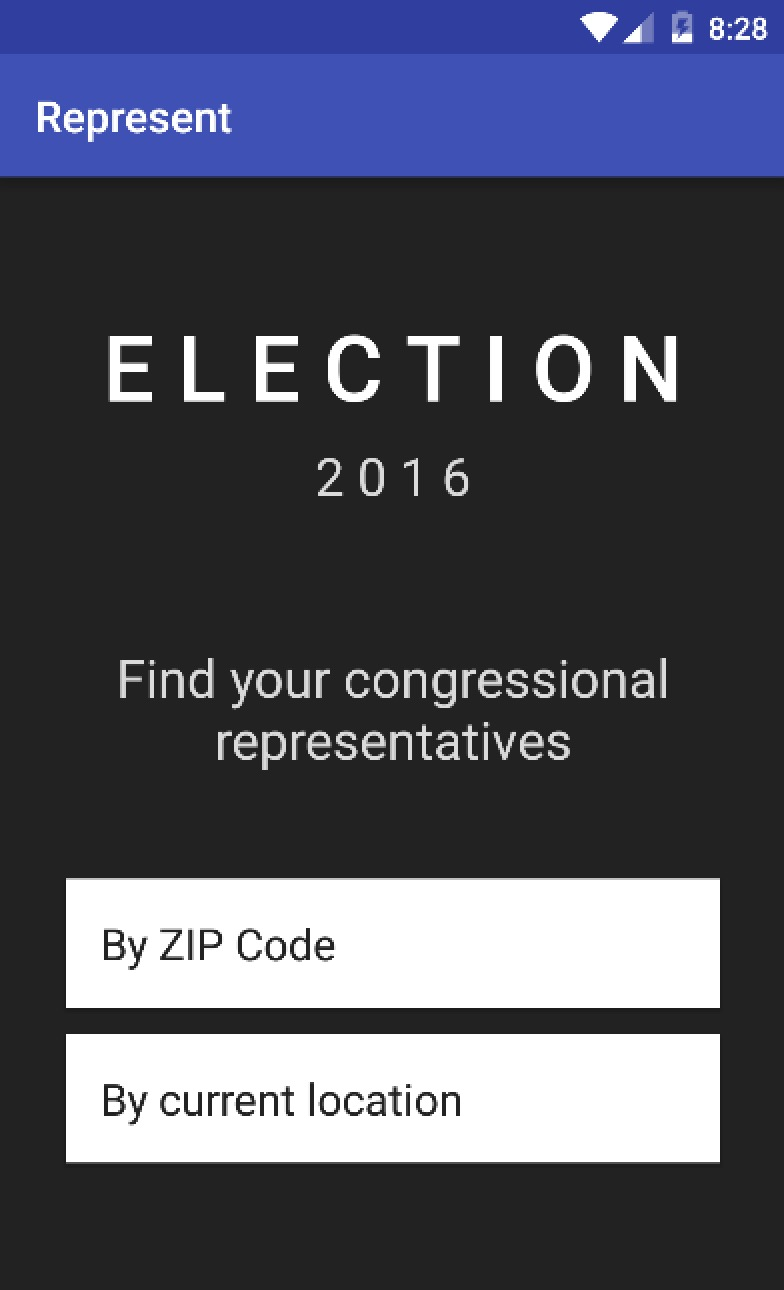
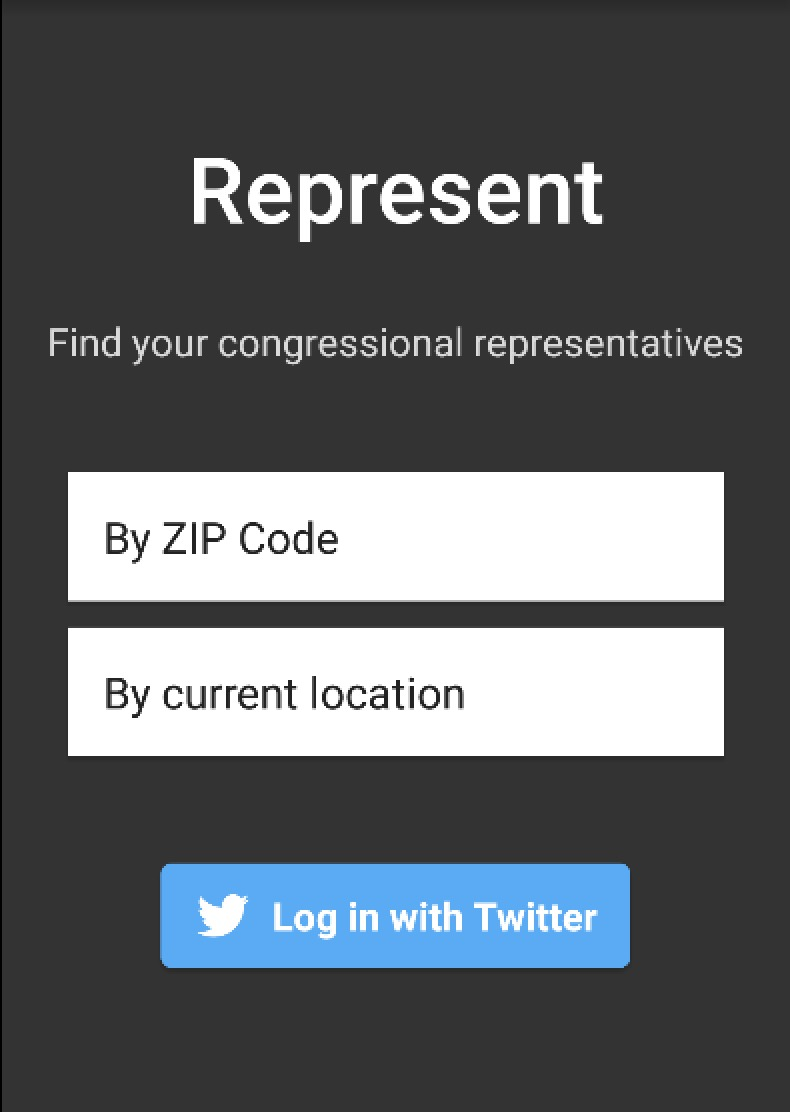
Updated README

diff --git a/README.md b/README.md
@@ -1,6 +1,6 @@
 # PROG 02: Represent!
 
-This is my Represent! app for CS160.
+This is my Represent! app for CS160. This is the final version which includes real API calls and real data. APIs used include Twitter, Sunlight, and others.
 
 ## Authors
 
@@ -8,11 +8,15 @@ Hamza Ahmed ([hamza.ah@berkeley.edu](mailto:hamza.ah@berkeley.edu))
 
 ## Demo Video
 
-See [my demo video] (https://youtu.be/7xXJb1NRkIo)
+See [my demo video] (https://www.youtube.com/watch?v=8j0YtjY2DNg)
 
 ## Screenshots
 
 <img src="screenshots/main.jpg" height="400" alt="Screenshot"/>
+<img src="screenshots/cv.jpg" height="400" alt="Screenshot"/>
+<img src="screenshots/watch.jpg" height="320" alt="Screenshot"/>
+<img src="screenshots/vote.jpg" height="320" alt="Screenshot"/>
+
 
 ## Acknowledgments
 
